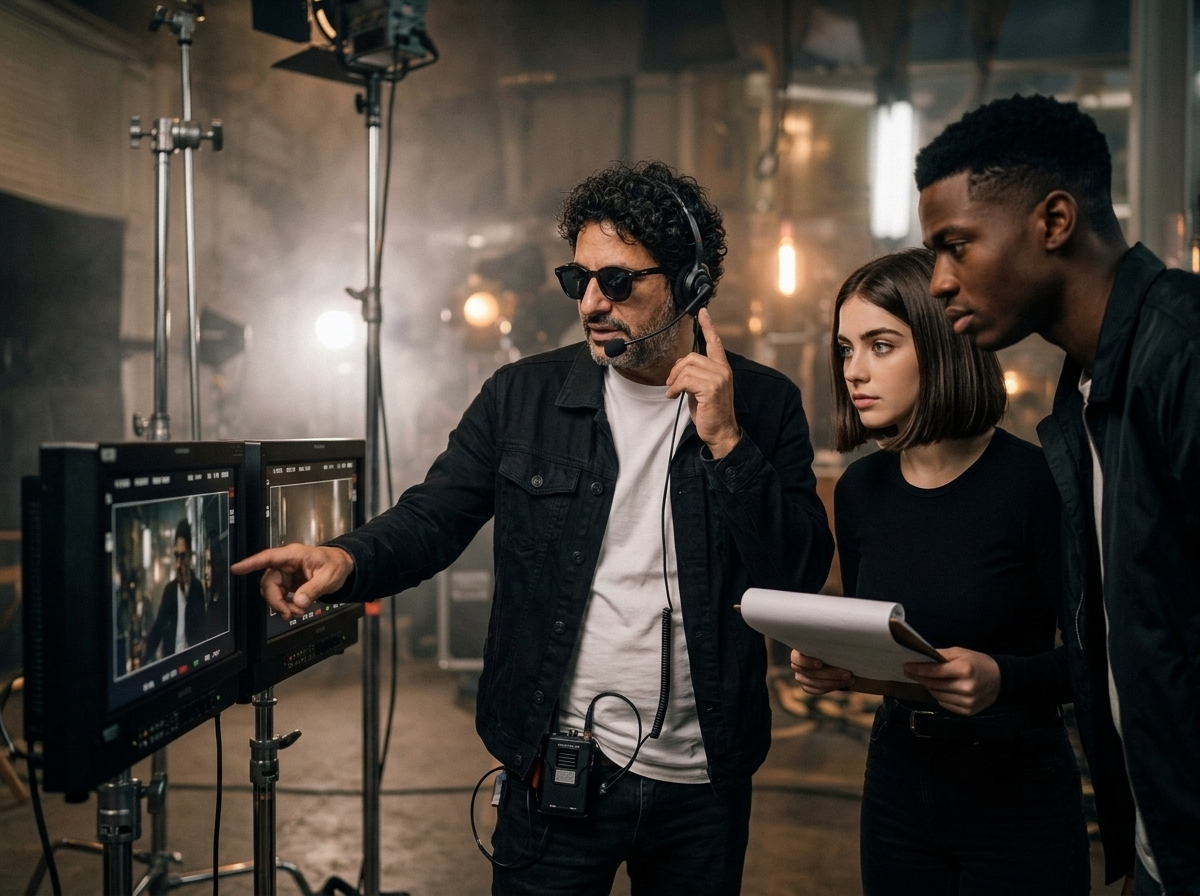
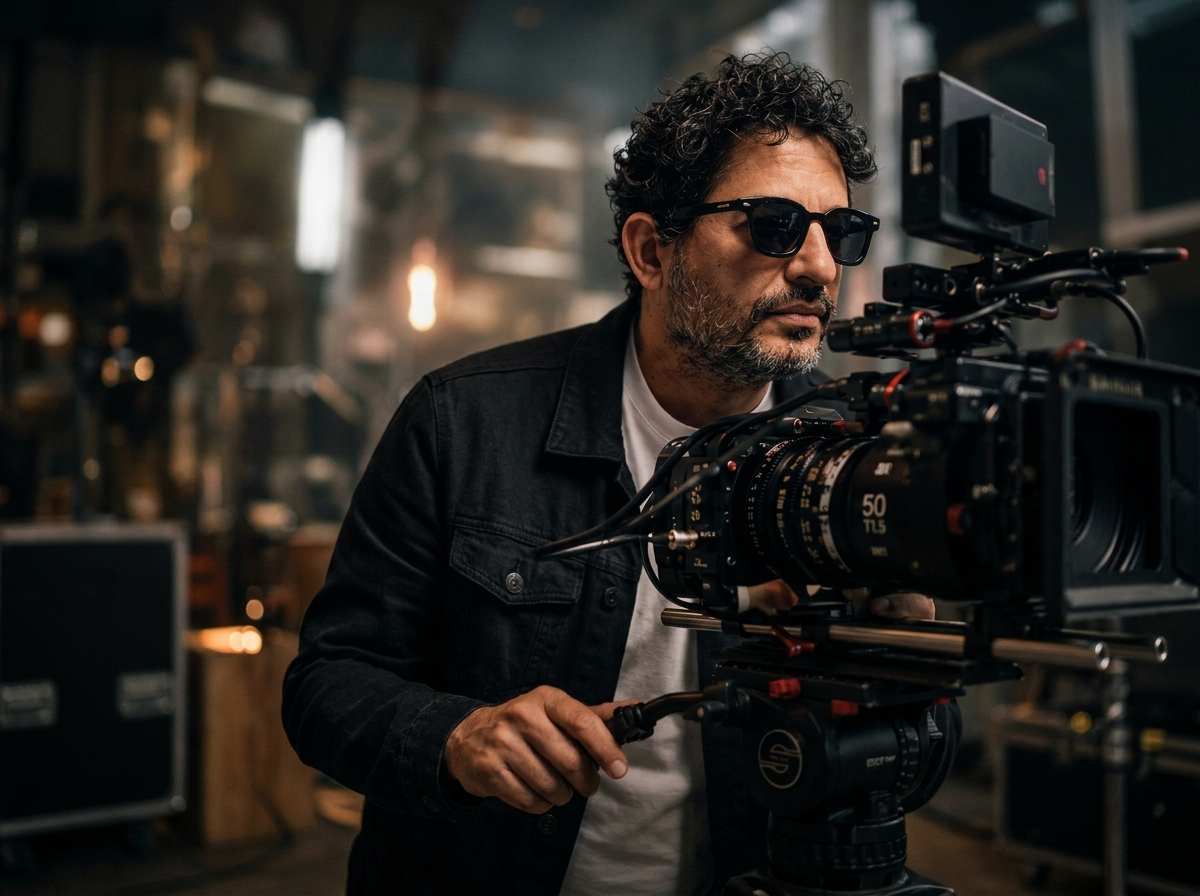
Restore realistic black-jacket portrait as main Sobre image and keep video village in filmstrip

diff --git a/index.html b/index.html
@@ -184,11 +184,11 @@
           <a href="#work" class="btn-outline" data-i18n="about_cta">CONHEÇA A TRAJETÓRIA →</a>
         </div>
         <div class="sage-photo-frame portrait">
-          <img src="assets/brand/hero_kiko.jpg?v=2" alt="Kiko Costato" loading="lazy" />
+          <img src="assets/brand/hero_kiko.jpg?v=3" alt="Kiko Costato" loading="lazy" />
         </div>
       </div>
       <div class="filmstrip-row">
-        <img src="assets/brand/hero_rooftop.jpg" alt="Set 01" loading="lazy" />
+        <img src="assets/brand/video_village.jpg" alt="Set 01" loading="lazy" />
         <img src="assets/brand/beats_dj.jpg" alt="Set 02" loading="lazy" />
         <img src="assets/brand/frames_cinema.jpg" alt="Set 03" loading="lazy" />
       </div>
